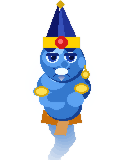
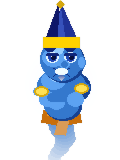
fix: remove earring/hat gem, deepen z-axis range
hat gem (red circle on band) and gold dangling earring removed.
z range widened: 0.12-2.8, speed 0.50 — genie now shrinks to a
tiny distant dot and zooms right in your face.

Changed region(s): [[0.45, 0.2188, 0.575, 0.3125], [0.675, 0.4062, 0.75, 0.5]]

diff --git a/gen_sprites.py b/gen_sprites.py
@@ -155,8 +155,6 @@ def draw_hat(draw, cx, head_top, t):
     poly(draw, [(tip_x,     tip_y + 3), (cx - 4, base_y), (cx + 4, base_y)], HAT_LIGHT)
 
     draw.rectangle([cx - bw - 1, base_y - 5, cx + bw + 1, base_y + 5], fill=HAT_BAND)
-    ell(draw, cx, base_y, 6, 6, HAT_GEM)
-    ell(draw, cx - 1, base_y - 1, 2, 2, (255, 115, 115, 255))
 
     ell(draw, tip_x, tip_y, 3, 3, GOLD)
     for ang in [0, 90, 180, 270]:
@@ -173,12 +171,9 @@ def draw_head(draw, cx, cy):
     ell(draw, cx - 8, cy - 2, 11, 9, BODY_LIGHT)
     ell(draw, cx - 4, cy - 10, 6, 5, BODY_BRIGHT)
 
-    # Right ear + earring
+    # Right ear (no earring)
     ell(draw, cx + r - 2, cy + 3, 5, 7, BODY_MID)
     ell(draw, cx + r - 1, cy + 3, 3, 5, BODY_LIGHT)
-    draw.line([(cx + r + 2, cy + 6), (cx + r + 3, cy + 13)], fill=GOLD, width=2)
-    ell(draw, cx + r + 3, cy + 15, 4, 4, GOLD)
-    ell(draw, cx + r + 3, cy + 15, 2, 2, GOLD_LIGHT)
 
 def draw_face(draw, cx, cy, expression="smirk"):
     if expression == "smirk":

diff --git a/Ginie.py b/Ginie.py
@@ -743,9 +743,9 @@ ANIM_FLOAT_MS = 110   # float cycle
 ANIM_WALK_MS  =  85   # walk cycle
 ANIM_POOF_MS  =  65   # poof frames
 
-Z_MIN   = 0.35   # deepest-into-screen scale
-Z_MAX   = 2.0    # closest-to-viewer scale
-Z_SPEED = 0.32   # z-units per second when vz=1.0
+Z_MIN   = 0.12   # deepest-into-screen scale — really tiny dot
+Z_MAX   = 2.8    # closest-to-viewer scale — right in your face
+Z_SPEED = 0.50   # z-units per second when vz=1.0
 
 # Drift directions — (vx, vy, vz).  vz>0 = toward viewer, vz<0 = into screen.
 _FLOAT_DIRS = [
